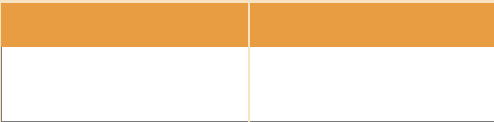
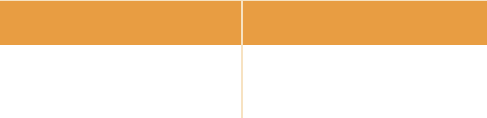
Adjust display and full screen size
用戶顯示修復 改了一些佈局大小

Changed region(s): [[0.0, 0.0, 1.0, 1.0]]

diff --git a/GUI_v1_4.py b/GUI_v1_4.py
@@ -66,17 +66,17 @@ class GUI:
         #     raise ValueError('board size too small')
 
         self.BoardSize = bs
-        self.ScreenSize = (1020,710)
+        self.ScreenSize = (1020,680)
         print("ScreenSize",self.ScreenSize)
         self.screen = pygame.display.set_mode(self.ScreenSize, 0, 32)
         pygame.display.set_caption('AlphaZero_Gomoku R')
 
         # button areas
-        self.areas['LastPage'] = Rect(775, 605, 60, 30)
-        self.areas['NextPage'] = Rect(890, 605, 60, 30)
-        self.areas['SwitchPlayer'] = Rect(704, 640, self.UnitSize*2, self.UnitSize)
-        self.areas['ResetScore'] = Rect(810, 640, self.UnitSize*2, self.UnitSize)
-        self.areas['RestartGame'] = Rect(916, 640, self.UnitSize*2, self.UnitSize)
+        self.areas['LastPage'] = Rect(755, 570, 80, 40)
+        self.areas['NextPage'] = Rect(865, 570, 80, 40)
+        self.areas['SwitchPlayer'] = Rect(700, 630, self.UnitSize*2, self.UnitSize)
+        self.areas['ResetScore'] = Rect(810, 630, self.UnitSize*2, self.UnitSize)
+        self.areas['RestartGame'] = Rect(920, 630, self.UnitSize*2, self.UnitSize)
 
         board_lenth = self.UnitSize * self.BoardSize
         self.areas['board'] = Rect(self.UnitSize, self.UnitSize, board_lenth, board_lenth)
@@ -228,23 +228,23 @@ class GUI:
         """
         if messages:
             self.messages = messages
-        pygame.draw.rect(self.screen, self._background_color, (700, 80, 150, 20))
+        pygame.draw.rect(self.screen, self._background_color, (700, 30, 150, 20))
         self._draw_round(False)
-        self._draw_text(self.messages, (745, 90), text_height=30)
+        self._draw_text(self.messages, (745, 40), text_height=30)
         self._draw_score()
 
     def _draw_score(self, update=True):
         score = 'Score: ' + str(self.score[0]) + ' : ' + str(self.score[1])
-        self._draw_text(score, (940, 90),
+        self._draw_text(score, (940, 40),
                         backgroud_color=self._background_color, text_height=30)
         if update:
             pygame.display.update()
 
     def _draw_round(self, update=True):
 
-        self._draw_text('History:', (745, 205),backgroud_color=self._background_color, text_height=30)
+        self._draw_text('History', (745, 155),backgroud_color=self._background_color, text_height=30)
 
-        self._draw_text('Round: ' + str(self.round_counter), (950, 205),backgroud_color=self._background_color, text_height=30)
+        self._draw_text('Round: ' + str(self.round_counter), (950, 155),backgroud_color=self._background_color, text_height=30)
 
         if update:
             pygame.display.update()
@@ -363,15 +363,15 @@ class GUI:
 
         # the first para is the picture item , the second one is the position in the flame
         self.screen.blit(background_image, (0, 0))
-        self.screen.blit(panel_image1, (705, 100))
-        self.screen.blit(panel_image2, (705, 240))
+        self.screen.blit(panel_image1, (705, 50))
+        self.screen.blit(panel_image2, (705, 190))
 
 
-        self._draw_text("Player1", (770, 115), text_height=25,font_color=(255,255,255))
-        self._draw_text("Player2", (925, 115),text_height=25,font_color=(255,255,255))
+        self._draw_text("Player1", (770, 65), text_height=25,font_color=(255,255,255))
+        self._draw_text("Player2", (925, 65),text_height=25,font_color=(255,255,255))
 
-        self._draw_text("Human(black)", (755, 150), text_height=20)
-        self._draw_text("AlphaZero(white)", (925, 150),text_height=20)
+        # self._draw_text("Human(black)", (755, 100), text_height=20)
+        # self._draw_text("AlphaZero(white)", (925, 100),text_height=20)
 
         # draw board
         board_lenth = self.UnitSize * self.BoardSize
@@ -389,21 +389,22 @@ class GUI:
             self._draw_text(i, (start + self.UnitSize, self.UnitSize / 2), text_height=self.TestSize)  # 横的
 
         # draw History
-        self._draw_text('History', (745, 205),backgroud_color=self._background_color, text_height=30)
+        # self._draw_text('History', (745, 155),backgroud_color=self._background_color, text_height=30)
 
-        self._draw_text('NO.', (730, 265),backgroud_color=(255,255,255), text_height=30)
-        self._draw_text('Winner', (820, 265),backgroud_color=(255,255,255), text_height=30)
-        self._draw_text('Time', (930, 265),backgroud_color=(255,255,255), text_height=30)
+        self._draw_text('NO.', (730, 215),backgroud_color=(255,255,255), text_height=30)
+        self._draw_text('Winner', (820, 215),backgroud_color=(255,255,255), text_height=30)
+        self._draw_text('Time', (930, 215),backgroud_color=(255,255,255), text_height=30)
+
+        pygame.draw.line(self.screen, self._button_color, (705, 170), (995, 170),1)
+        pygame.draw.line(self.screen, self._button_color, (705, 230), (995, 230),1)
 
         for i in range(0, 8, 1):
             #self._draw_text(str(i), (730, 265+i*40),backgroud_color=(255,255,255), text_height=30)
             #self._draw_text('computer', (820, 265+i*40),backgroud_color=(255,255,255), text_height=30)
             #self._draw_text('12:87:23', (930, 265+i*40),backgroud_color=(255,255,255), text_height=30)
-            pygame.draw.line(self.screen, self._button_color, (705, 320+(i%8)*40), (995, 320+(i%8)*40),1)
+            pygame.draw.line(self.screen, self._button_color, (705, 270+(i%8)*40), (995, 270+(i%8)*40),1)
             #pygame.draw.line(UI.screen, UI._button_color, (705, 320+(i%8)*40), (995, 320+(i%8)*40),1)
-        pygame.draw.line(self.screen, self._button_color, (705, 220), (995, 220),1)
 
-        pygame.draw.line(self.screen, self._button_color, (705, 280), (995, 280),1)
         # draw buttons
         for name in self.areas.keys():
             if name != 'board':

diff --git a/human_play_MPI.py b/human_play_MPI.py
@@ -159,7 +159,7 @@ def start_play(start_player=0, is_shown=1):
 
         if rank == 0:
             # print move index
-#            print(board.move_to_location(bcast_move))
+			# print(board.move_to_location(bcast_move))
             if is_shown:
                 graphic(board=board)
 
@@ -178,7 +178,7 @@ def start_play(start_player=0, is_shown=1):
 
         if rank == 0:
             # gather ecah rank's move and get the most selected one
-#            print('list is', gather_move_list)
+			# print('list is', gather_move_list)
             bcast_move = Counter(gather_move_list).most_common()[0][0]
 
         # bcast the move to other ranks
@@ -190,7 +190,7 @@ def start_play(start_player=0, is_shown=1):
         # print('rank:', rank, board.availables)
 
         if rank == 0:
-#            print(board.move_to_location(bcast_move))
+		# print(board.move_to_location(bcast_move))
             if is_shown:
                 graphic(board=board)
         end, winner = board.game_end()
@@ -217,7 +217,7 @@ def start_play(start_player=0, is_shown=1):
         # print('rank:', rank, board.availables)
 
         if rank == 0:
-#            print(board.move_to_location(bcast_move))
+		#print(board.move_to_location(bcast_move))
             if is_shown:
                 graphic(board=board)
         end, winner = board.game_end()
@@ -340,24 +340,36 @@ def start_play_with_UI(start_player=0):
         SP = start_player
         UI = GUI(board.width)
 
+
+
     while True:
 
         if rank == 0:
 
+
+            if SP == 0:
+                print()
+                UI._draw_text("Human(black)", (765, 100), text_height=20)
+                UI._draw_text("AlphaZero(white)", (935, 100),text_height=20)
+            else:
+                print()
+                UI._draw_text("AlphaZero(black)", (765, 100), text_height=20)
+                UI._draw_text("Human(white)", (935, 100),text_height=20)
+
             for i in range(0, 8, 1):
 
                 if (i <len(win_loss_list)):
-                    UI._draw_text("       ", (730, 305+(i%8)*40),backgroud_color=(255,255,255), text_height=30)
-                    UI._draw_text("       ", (820, 305+(i%8)*40),backgroud_color=(255,255,255), text_height=30)
+                    UI._draw_text("       ", (730, 255+(i%8)*40),backgroud_color=(255,255,255), text_height=30)
+                    UI._draw_text("       ", (820, 255+(i%8)*40),backgroud_color=(255,255,255), text_height=30)
                     UI._draw_text("                  ", (935, 305+(i%8)*40),backgroud_color=(255,255,255), text_height=30)
                     #pygame.draw.line(UI.screen, UI._button_color, (705, 320+(i%8)*40), (995, 320+(i%8)*40),1)
 
             for i in range(show_start, show_start+8, 1):
 
                 if (i <len(win_loss_list)):
-                    UI._draw_text(win_loss_list[i][0], (730, 305+(i%8)*40),backgroud_color=(255,255,255), text_height=30)
-                    UI._draw_text(win_loss_list[i][1], (820, 305+(i%8)*40),backgroud_color=(255,255,255), text_height=30)
-                    UI._draw_text(win_loss_list[i][2], (935, 305+(i%8)*40),backgroud_color=(255,255,255), text_height=30)
+                    UI._draw_text(win_loss_list[i][0], (730, 255+(i%8)*40),backgroud_color=(255,255,255), text_height=30)
+                    UI._draw_text(win_loss_list[i][1], (820, 255+(i%8)*40),backgroud_color=(255,255,255), text_height=30)
+                    UI._draw_text(win_loss_list[i][2], (935, 255+(i%8)*40),backgroud_color=(255,255,255), text_height=30)
                     #pygame.draw.line(UI.screen, UI._button_color, (705, 320+(i%8)*40), (995, 320+(i%8)*40),1)
 
             for move_availables in board.availables:
@@ -368,10 +380,12 @@ def start_play_with_UI(start_player=0):
                     print("ban at ",move_availables)
                     UI._draw_ban((i, j))
 
+
             if current_player_num == 0:
                 UI.show_messages('Your turn')
             else:
                 UI.show_messages('AI\'s turn')
+
 
         # AI's turn
         if current_player_num == 1 and not end:
@@ -388,7 +402,7 @@ def start_play_with_UI(start_player=0):
 
             if rank == 0:
                 # gather ecah rank's move and get the most selected one
-#                print('list is', gather_move_list)
+				# print('list is', gather_move_list)
                 bcast_move = Counter(gather_move_list).most_common()[0][0]
                 # print(board.move_to_location(bcast_move))
 
